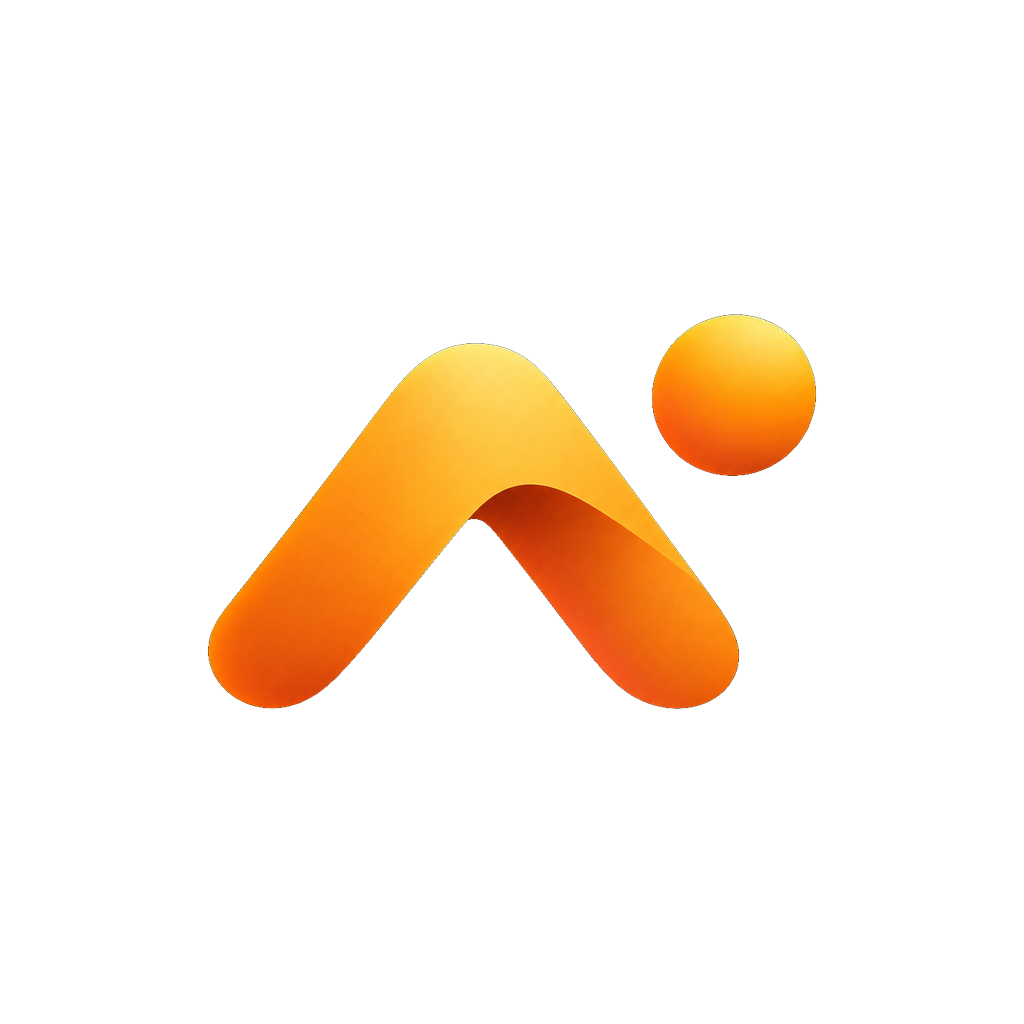
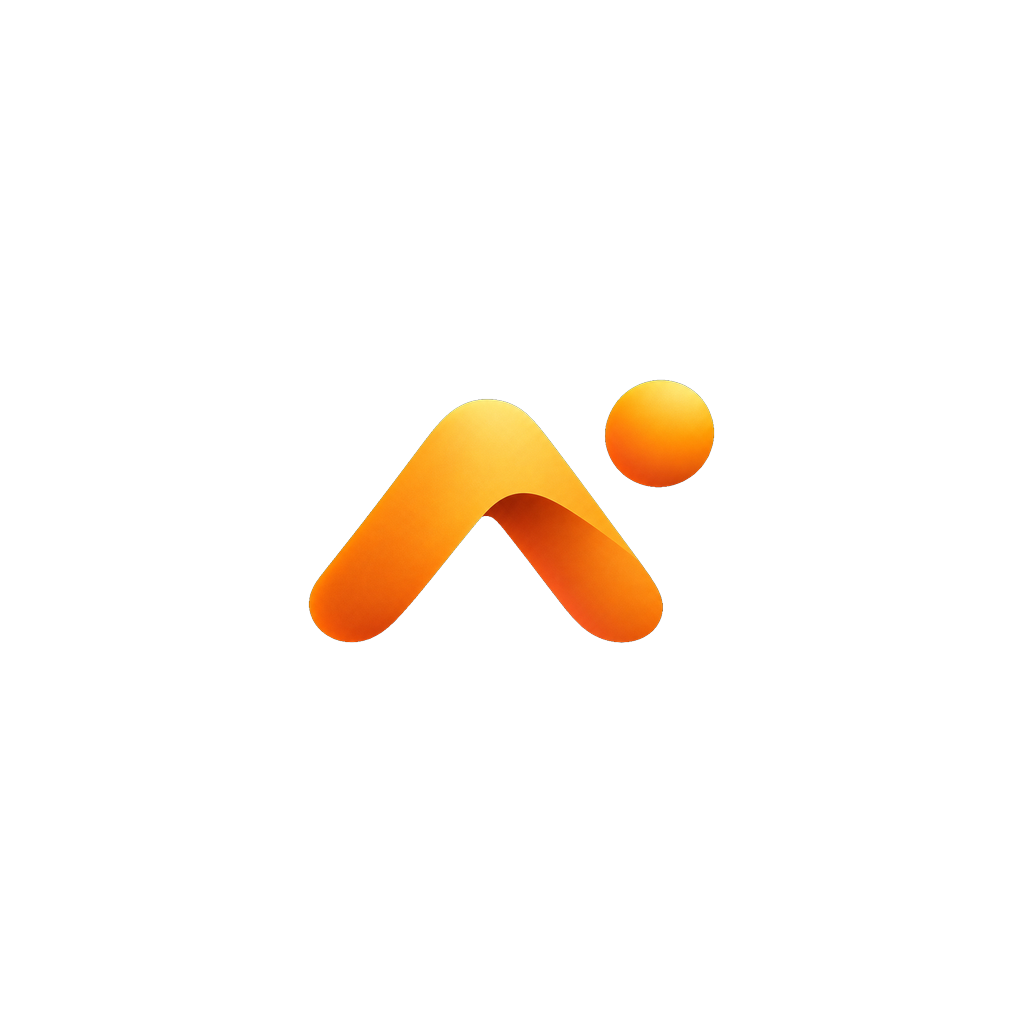
أندرويد: النص من اليمين، والموضع بلا خدمات قوقل، والأيقونة بنسبة آبل، وتبويبات أسرع (#296)
Claude-Session: https://claude.ai/code/session_01Gu4KQke3kiGGssa4SttZnc

Changed region(s): [[0.1875, 0.2812, 0.8125, 0.7188]]

diff --git a/apps/mobile/lib/location.ts b/apps/mobile/lib/location.ts
@@ -1,0 +1,65 @@
+import { Platform } from "react-native";
+import * as Base from "expo-location";
+
+export * from "expo-location";
+
+/**
+ * موضعُ الجهاز على أندرويد بلا خدمات قوقل (القاعدة ٤٤٢).
+ *
+ * `getCurrentPositionAsync` في واجهة `expo-location` القديمة يسأل `FusedLocationProviderClient`
+ * من خدمات قوقل وحده — وجوّالاتُ هواوي بلاها، فكان «من حولك» واختيارُ المكان ولحظةُ المدينة لا
+ * تجد موضعاً. وواجهتُها الجديدة (`expo-location/next`) في البناء نفسه، **وتجرّب قوقل ثمّ
+ * `LocationManager` الأصليّ**، فيُقرأ منها على أندرويد ويُعاد بشكل القديمة فلا يتغيّر من ينادي.
+ * وآبل على القديمة كما هي.
+ */
+type Next = typeof import("expo-location/next");
+let next: Next | null | undefined;
+
+function nextApi(): Next | null {
+  if (Platform.OS !== "android") return null;
+  if (next === undefined) {
+    try {
+      next = require("expo-location/next") as Next;
+    } catch {
+      next = null;
+    }
+  }
+  return next;
+}
+
+type Fix = NonNullable<Awaited<ReturnType<Next["Location"]["getPosition"]>>>;
+
+function shape(p: Fix): Base.LocationObject {
+  return {
+    coords: {
+      latitude: p.coordinates.latitude,
+      longitude: p.coordinates.longitude,
+      accuracy: p.horizontalAccuracy,
+      altitude: null,
+      altitudeAccuracy: null,
+      heading: null,
+      speed: null,
+    },
+    timestamp: p.timestamp,
+  };
+}
+
+export async function getCurrentPositionAsync(options?: Base.LocationOptions): Promise<Base.LocationObject> {
+  const api = nextApi();
+  if (!api) return Base.getCurrentPositionAsync(options);
+  const fix = await api.Location.getPosition({ timeout: 20 });
+  if (!fix) throw new Error("no location");
+  return shape(fix);
+}
+
+export async function getLastKnownPositionAsync(
+  options?: Base.LocationLastKnownOptions,
+): Promise<Base.LocationObject | null> {
+  const api = nextApi();
+  if (!api) return Base.getLastKnownPositionAsync(options);
+  const fix = await api.Location.getPosition({ timeout: 0 }).catch(() => null);
+  if (!fix) return null;
+  if (options?.maxAge != null && Date.now() - fix.timestamp > options.maxAge) return null;
+  if (options?.requiredAccuracy != null && (fix.horizontalAccuracy ?? Infinity) > options.requiredAccuracy) return null;
+  return shape(fix);
+}

diff --git a/apps/mobile/components/type.tsx b/apps/mobile/components/type.tsx
@@ -61,10 +61,16 @@ export type TextProps = RNTextProps & { face?: Face };
  * «يمين» ← طبيعيّةٌ باتجاهٍ من اليمين، و«يسار» ← طبيعيّةٌ باتجاهٍ من
  * اليسار (حقولُ الروابط والبريد). والوسطُ يبقى وسطاً.
  *
- * وأندرويد على حاله: لا يمرّ بهذا الكود، ولم يُرَ فيه عطل.
+ * **وأندرويد مثلُها** (القاعدة ٤٤٢): `TextLayoutManager` يقرأ `right` «نهايةَ» الفقرة —
+ * `ALIGN_OPPOSITE` — فإذا كانت الفقرةُ من اليمين صارت النهايةُ يساراً، وخرجت النصوصُ
+ * كلُّها من اليسار على أوّل جوّالٍ بأندرويد. والطبيعيّةُ هناك تُحسم باتجاه الفقرة
+ * (اتجاهُ العقدة — `nodeDirection`)، فالترجمةُ نفسُها: طبيعيّةٌ واتجاهٌ بالقصد.
  */
 function align(flat: TextStyle): Pick<TextStyle, "textAlign" | "writingDirection"> {
   const want = flat.textAlign ?? "right";
+  if (Platform.OS === "android" && (want === "right" || want === "left")) {
+    return { textAlign: "auto", writingDirection: want === "right" ? "rtl" : "ltr" };
+  }
   if (Platform.OS !== "ios" || (want !== "right" && want !== "left")) {
     return { textAlign: want, writingDirection: flat.writingDirection ?? "rtl" };
   }
@@ -93,7 +99,7 @@ function paint(style: unknown, face: Face): TextStyle {
  * ويسارٌ ← `ltr` — لا يُترك لما يرثه، والوراثةُ لم تصل.
  */
 function nodeDirection(flat: TextStyle): Pick<TextStyle, "direction"> {
-  if (Platform.OS !== "ios") return {};
+  if (Platform.OS !== "ios" && Platform.OS !== "android") return {};
   const want = flat.textAlign ?? "right";
   if (want === "right") return { direction: "rtl" };
   if (want === "left") return { direction: "ltr" };

diff --git a/apps/mobile/components/glass-bar.tsx b/apps/mobile/components/glass-bar.tsx
@@ -269,6 +269,12 @@ export function GlassBar({ state, emitter, navigateToTab }: BarProps) {
       x.setValue(to);
       return;
     }
+    // على أندرويد انزلاقٌ يستقرّ في نحو خُمس ثانية (القاعدة ٤٤٢): عدسةُ آبل ترتفع وتتمطّط
+    // وتهبط بنابضٍ ليّن، فكان التبويبُ يأخذ قرابةَ ثانيةٍ ليستقرّ.
+    if (Platform.OS === "android") {
+      spring(x, to, 420, 41).start();
+      return;
+    }
     // بعد السحب لا تُعاد العدسة: تختفي ساعةَ يُرفع الإصبع.
     const pulse = hoverRef.current === null && Date.now() - releasedAt.current > 600;
     if (!pulse) {

diff --git a/apps/mobile/app/compose.tsx b/apps/mobile/app/compose.tsx
@@ -7,7 +7,7 @@ import { Text, TextInput } from "../components/type";
 import { SafeAreaView } from "react-native-safe-area-context";
 import { useFocusEffect, useLocalSearchParams, useRouter } from "expo-router";
 import * as Picker from "expo-image-picker";
-import * as Location from "expo-location";
+import * as Location from "../lib/location";
 import { useQueryClient } from "@tanstack/react-query";
 import { ScreenHeader } from "../components/screen-header";
 import { PeopleSheet, PickerButton, type Friend } from "../components/people-sheet";

diff --git a/apps/mobile/components/story-place-sheet.tsx b/apps/mobile/components/story-place-sheet.tsx
@@ -2,7 +2,7 @@ import { Spinner } from "./spinner";
 import { useEffect, useState } from "react";
 import { Pressable, ScrollView, View, useWindowDimensions } from "react-native";
 import { useKeyboardInset } from "../lib/keyboard";
-import * as Location from "expo-location";
+import * as Location from "../lib/location";
 import { Text, TextInput } from "./type";
 import { CloseIcon, PinIcon, SearchIcon } from "./icons";
 import { api } from "../lib/api";

diff --git a/apps/mobile/components/add-sheet.tsx b/apps/mobile/components/add-sheet.tsx
@@ -1,7 +1,7 @@
 import { Spinner } from "./spinner";
 import { useCallback, useEffect, useRef, useState } from "react";
 import { Animated, Easing, Linking, Pressable, Share, View } from "react-native";
-import * as Location from "expo-location";
+import * as Location from "../lib/location";
 import { useRouter } from "expo-router";
 import { useMutation } from "@tanstack/react-query";
 import { create } from "zustand";

diff --git a/apps/mobile/lib/quiet-fix.ts b/apps/mobile/lib/quiet-fix.ts
@@ -1,4 +1,4 @@
-import * as Location from "expo-location";
+import * as Location from "./location";
 
 /**
  * موضعُ الجهاز لـ«خريطتي» بلا سؤال (القاعدة ٣٨١): من منح إذن الموقع تُقرأ منه، ومن لم

diff --git a/apps/mobile/lib/arrive.ts b/apps/mobile/lib/arrive.ts
@@ -1,4 +1,4 @@
-import * as Location from "expo-location";
+import * as Location from "./location";
 import { AppState } from "react-native";
 import { api } from "./api";
 import { appleAirport } from "./apple-places";

diff --git a/CLAUDE.md b/CLAUDE.md
@@ -4268,6 +4268,19 @@
    وخادمُ Kotlin وعمّالٌ متوازون تجاوزوا ذاكرة عامل EAS فقتلهم النظام. فـ`-Xmx4g`، وعاملان،
    وبلا توازٍ، وKotlin داخل Gradle (`in-process`). أبطأُ قليلاً ولا يُقتل، وآبل لا يمسّها.
 
+442. **ما ظهر على أوّل جوّالٍ بأندرويد (هواوي)** — **بقرار المالك**:
+   **النصُّ من اليمين** (`components/type.tsx`): `TextLayoutManager` يقرأ `textAlign: "right"`
+   نهايةَ الفقرة (`ALIGN_OPPOSITE`)، وفي فقرةٍ من اليمين النهايةُ يسار — فخرجت النصوصُ كلُّها
+   من اليسار. فالترجمةُ ترجمةُ آبل (القاعدة ٤٠٢): `auto` واتجاهُ العقدة بالقصد.
+   **والموضعُ بلا خدمات قوقل** (`lib/location.ts`): `getCurrentPositionAsync` القديمة تسأل
+   خدماتِ قوقل وحدها، فلا موضعَ على هواوي لـ«من حولك» ولا للأماكن ولا للحظة المدينة. فعلى
+   أندرويد تُقرأ من `expo-location/next` (قوقل ثمّ `LocationManager`) بشكل القديمة،
+   **ولا يُستورد `expo-location` لموضعٍ إلا من هذا الملفّ**. والبلوتوثُ على أندرويد لم يُبنَ بعد.
+   **والأيقونةُ المتكيّفة بنسبة آبل** (`adaptive-icon.png` بثلثي اللوحة و`adaptive-bg.png`
+   تدرّجُها): أندرويد يُظهر ثلثي اللوحة الوسطى، فكانت العلامةُ تملأ تسعة أعشار الأيقونة على
+   أرضٍ مصمتة. **وقرصُ الشريط على أندرويد انزلاقٌ يستقرّ في خُمس ثانية** (`glass-bar.tsx`)
+   لا عدسةُ آبل بنابضها الليّن.
+
 ## اتجاه التطبيق على الجوّال
 
 الواجهة عربية من اليمين إلى اليسار في الويب والتطبيق سواء، والاتجاه
